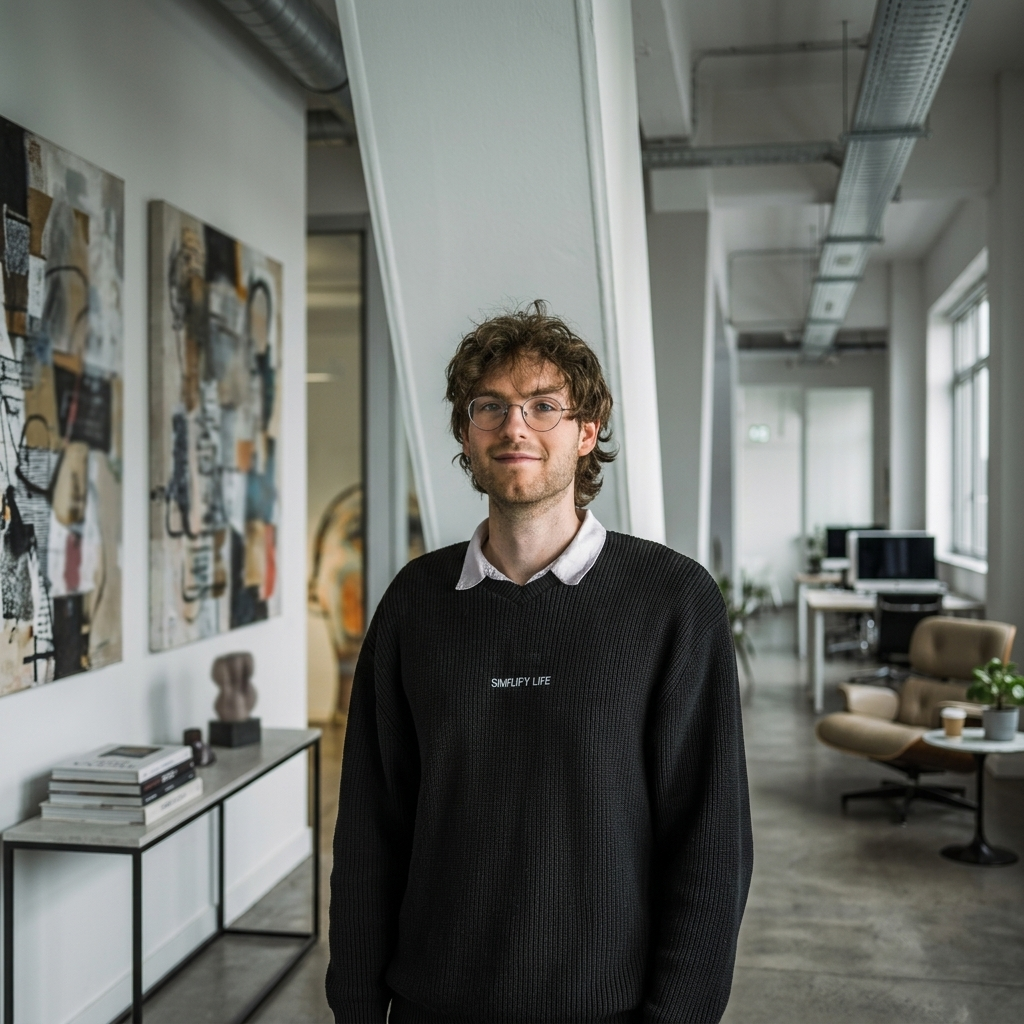
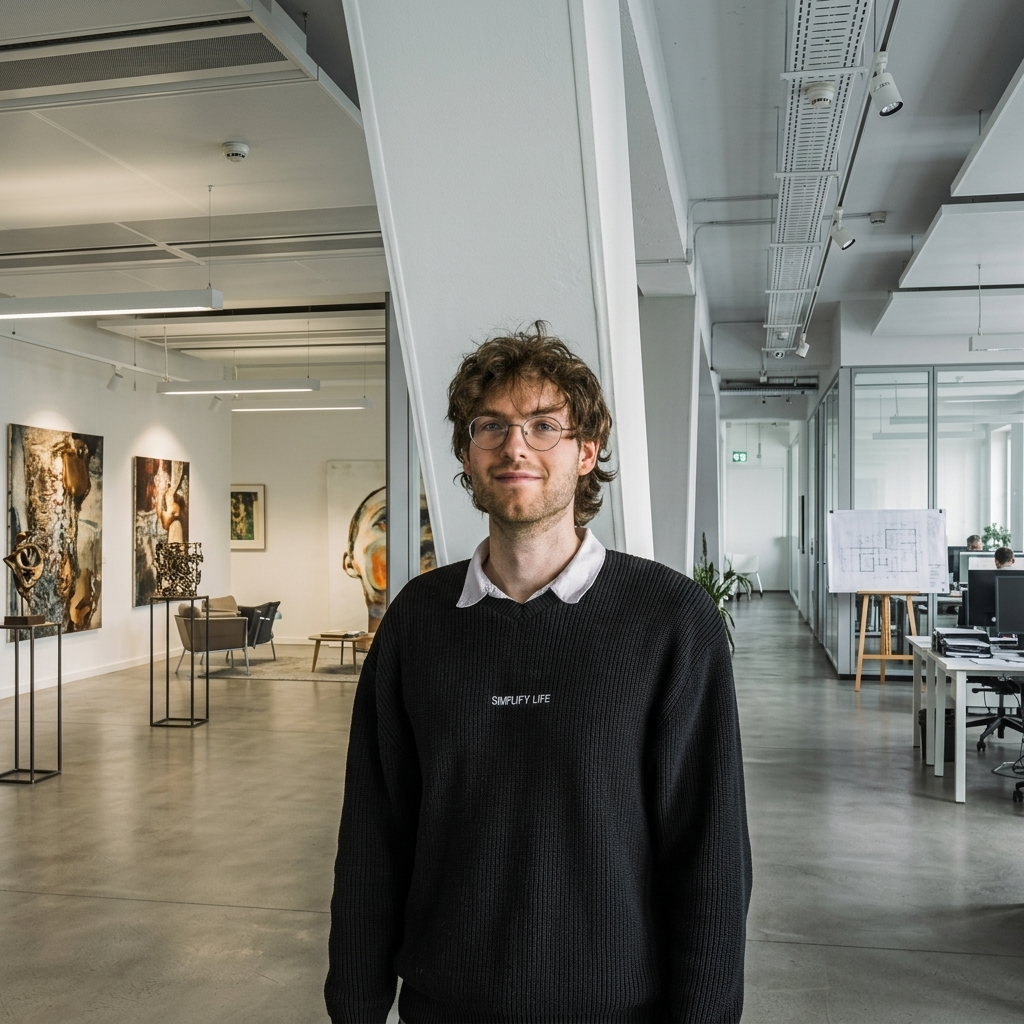
Regenerate high-resolution hero background and remove blur/opacity

diff --git a/style.css b/style.css
@@ -345,10 +345,10 @@ nav a.active {
   max-width: none;
   aspect-ratio: auto;
   object-fit: cover;
-  /* Massive radial fade mask to blend the edges of the screen into the dark theme */
-  mask-image: radial-gradient(circle at center, black 40%, transparent 90%);
-  -webkit-mask-image: radial-gradient(circle at center, black 40%, transparent 90%);
-  opacity: 0.7; /* Slightly faded so typography stands out */
+  /* Reduced the fade so the image remains mostly sharp and vivid */
+  mask-image: radial-gradient(circle at center, black 60%, transparent 100%);
+  -webkit-mask-image: radial-gradient(circle at center, black 60%, transparent 100%);
+  opacity: 1; /* Restored full opacity for maximum crispness */
 }
 
 /* Right Column */
